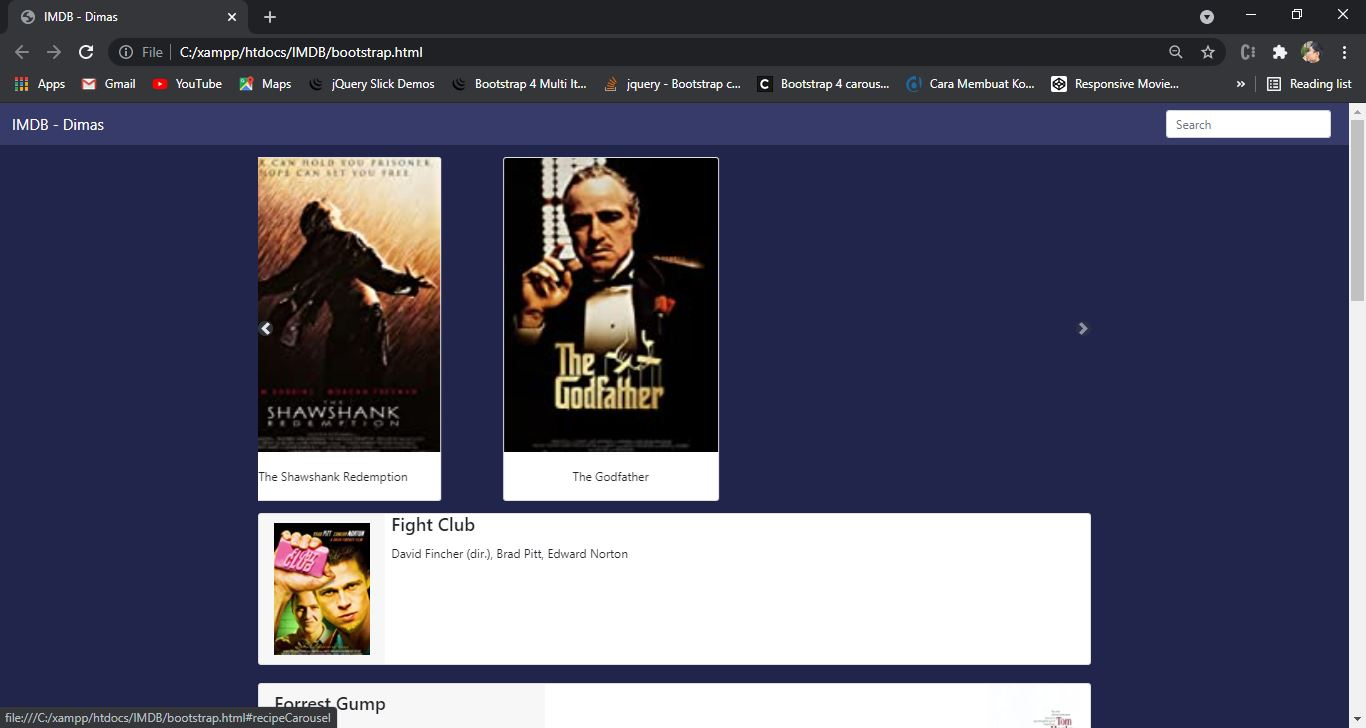
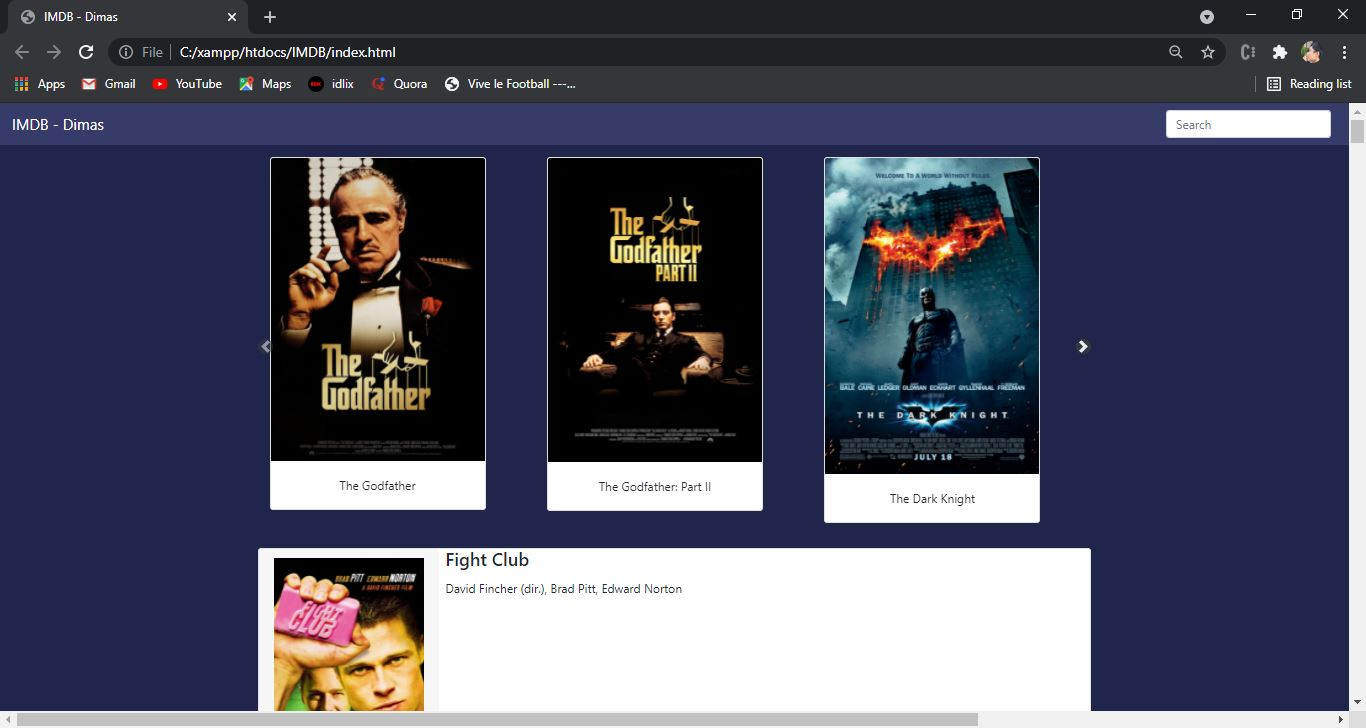
fix bug card slider

diff --git a/script-data.js b/script-data.js
@@ -25,21 +25,40 @@ function showMovies(data) {
   var hasil = data.slice(0, 10);
 
   hasil.forEach((movie) => {
-    const { id, title, image, imDbRating, crew } = movie;
-    const movieEl = document.createElement("div");
-    movieEl.classList.add("carousel-item");
-    movieEl.innerHTML = `
-    <div class="col-md-4">
-    <div class="card" style="width: 18rem; " onclick="detailPage('${id}')">
-    <img src="${image}" class="card-img-top" alt="${title}">
-      <div class="card-body">
-        <p class="card-text">${title}</p>
+    const { id, title, image, imDbRating, crew, rank } = movie;
+    var movieEl = "";
+    if (rank == 1) {
+      movieEl = document.createElement("div");
+      movieEl.classList.add("carousel-item");
+      movieEl.classList.add("active");
+      movieEl.innerHTML = `
+      <div class="col-md-4">
+      <div class="card" style="width: 18rem; " onclick="detailPage('${id}')">
+      <img src="${image}" class="card-img-top" alt="${title}">
+        <div class="card-body">
+          <p class="card-text">${title}</p>
+        </div>
+      </div>  
       </div>
-    </div>  
-    </div>
-    `;
+      `;
+    } else {
+      movieEl = document.createElement("div");
+      movieEl.classList.add("carousel-item");
+      movieEl.innerHTML = `
+      <div class="col-md-4">
+      <div class="card" style="width: 18rem; " onclick="detailPage('${id}')">
+      <img src="${image}" class="card-img-top" alt="${title}">
+        <div class="card-body">
+          <p class="card-text">${title}</p>
+        </div>
+      </div>  
+      </div>
+      `;
+    }
+
     main.appendChild(movieEl);
   });
+  slick();
 }
 
 function showMovies2(data) {
@@ -181,4 +200,27 @@ function showDetail(data) {
   </div> 
   `;
   konten.appendChild(movieEl);
+}
+
+function slick() {
+  $("#recipeCarousel").carousel({
+    interval: 10000,
+  });
+  $(".carousel .carousel-item").each(function () {
+    var minPerSlide = 3;
+    var next = $(this).next();
+    if (!next.length) {
+      next = $(this).siblings(":first");
+    }
+    next.children(":first-child").clone().appendTo($(this));
+
+    for (var i = 0; i < minPerSlide; i++) {
+      next = next.next();
+      if (!next.length) {
+        next = $(this).siblings(":first");
+      }
+
+      next.children(":first-child").clone().appendTo($(this));
+    }
+  });
 }

diff --git a/index.html b/index.html
@@ -102,26 +102,7 @@
             class="carousel slide w-100"
             data-ride="carousel"
           >
-            <div id="main" class="carousel-inner w-100" role="listbox">
-              <div class="carousel-item active">
-                <div class="col-md-4">
-                  <div
-                    class="card"
-                    style="width: 18rem"
-                    onclick="cardClicked()"
-                  >
-                    <img
-                      src="https://m.media-amazon.com/images/M/MV5BMDFkYTc0MGEtZmNhMC00ZDIzLWFmNTEtODM1ZmRlYWMwMWFmXkEyXkFqcGdeQXVyMTMxODk2OTU@._V1_UX128_CR0,3,128,176_AL_.jpg"
-                      class="card-img-top"
-                      alt="..."
-                    />
-                    <div class="card-body">
-                      <p class="card-text"></p>
-                    </div>
-                  </div>
-                </div>
-              </div>
-            </div>
+            <div id="main" class="carousel-inner w-100" role="listbox"></div>
             <a
               class="carousel-control-prev w-auto"
               href="#recipeCarousel"
@@ -183,32 +164,5 @@
       integrity="sha384-JjSmVgyd0p3pXB1rRibZUAYoIIy6OrQ6VrjIEaFf/nJGzIxFDsf4x0xIM+B07jRM"
       crossorigin="anonymous"
     ></script>
-    <script>
-      $("#recipeCarousel").carousel({
-        interval: 10000,
-      });
-
-      $(".carousel .carousel-item").each(function () {
-        var minPerSlide = 3;
-        var next = $(this).next();
-        if (!next.length) {
-          next = $(this).siblings(":first");
-        }
-        next.children(":first-child").clone().appendTo($(this));
-
-        for (var i = 0; i < minPerSlide; i++) {
-          next = next.next();
-          if (!next.length) {
-            next = $(this).siblings(":first");
-          }
-
-          next.children(":first-child").clone().appendTo($(this));
-        }
-      });
-      function cardClicked() {
-        alert("clicked");
-        konten.innerHTML = "";
-      }
-    </script>
   </body>
 </html>
